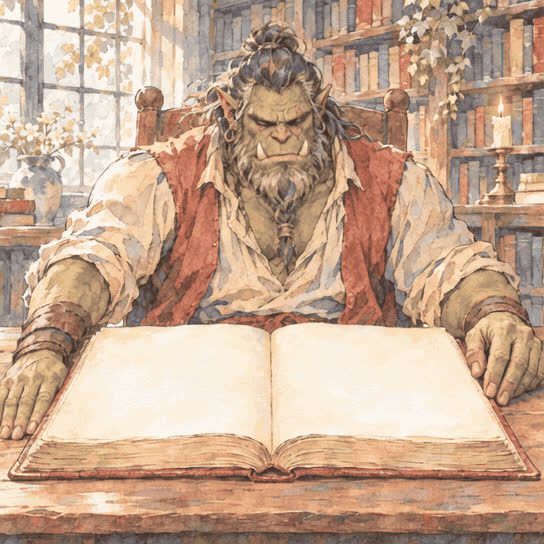
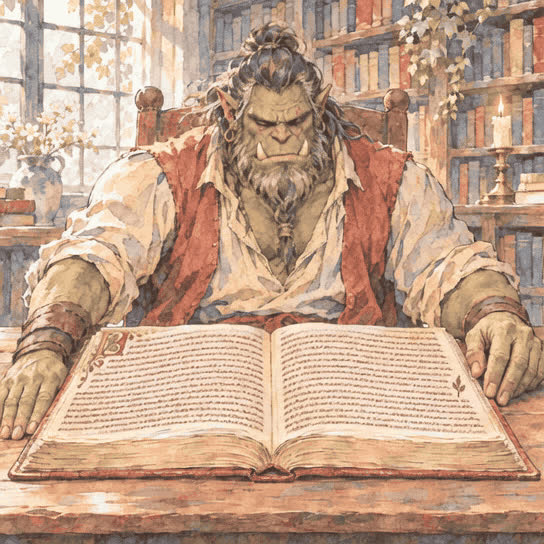
Give the Reading book handwritten pages.
Both open pages and the turning sheet now carry lines of handwritten ink script with a drop cap and a margin leaf. The writing is a Studio edit's ink composited onto the original still's pages, and Grok Imagine (Cursor GenerateVideo) animates the turn with the near hand.

Changed region(s): [[0.0938, 0.5938, 0.9375, 0.8125]]

diff --git a/scripts/motion-prompts.ts b/scripts/motion-prompts.ts
@@ -152,7 +152,7 @@ export const PROMPTS: Record<string, string> = {
   ready:
     "The armored orc tightens his grip on the axe and shifts into a ready stance, determined breath. Locked camera.",
   reading:
-    "The heavy book lies open flat on the table and never moves or lifts. His head stays still and bowed, and his eyes look down at the pages the whole time, never at the viewer. His hand on the right side of the picture, already resting next to the book, moves onto the outer top corner of the right-hand page, and his fingers pick up that corner of the top sheet. That one page is hinged at the spine: its inner edge stays fixed in the spine the whole time. His fingers lift the corner, and the page rises in a smooth arc, standing up over the spine, then his hand carries it over to the left side and lays it flat on the left stack of pages. His fingers let go and his hand goes back to rest on the table at the right side of the book. His hand on the left side of the picture stays resting on the table and does not move. Only that one page moves; every other page stays flat, and nothing floats in the air. The page keeps its size and shape and stays blank cream paper on both sides. Mouth stays closed, no talking. No text, no captions, no writing, no effects. His hair, beard, tusks, face, clothes, the table and the library stay exactly the same. Locked camera: the framing stays exactly the same, no zoom, no pan, no cut.",
+    "The heavy book lies open flat on the table and never moves or lifts. Both pages are covered in lines of handwritten ink script that stay printed on the paper: the writing never moves, crawls, changes or slides, it stays fixed on each page like real ink. His head stays still and bowed, and his eyes stay down on the book the whole time: he never looks up, never looks at the viewer, his eyelids stay lowered as he reads. His hand on the right side of the picture, already resting next to the book, moves onto the outer top corner of the right-hand page, and his fingers pick up that corner of the top sheet. That one page is hinged at the spine: its inner edge stays fixed in the spine the whole time. His fingers lift the corner, and the page rises in a smooth arc, standing up over the spine, then his hand carries it over to the left side and lays it flat on the left stack of pages. The turning sheet also carries lines of handwritten script on both sides, printed on the paper, and the page underneath it shows more lines of handwritten script. His fingers let go and his hand goes back to rest on the table at the right side of the book. His hand on the left side of the picture stays resting on the table and does not move. Only that one page moves; every other page stays flat, and nothing floats in the air. The page keeps its size and shape. Mouth stays closed, no talking. No captions, no text overlays, no effects. His hair, beard, tusks, face, clothes, the table and the library stay exactly the same. Locked camera: the framing stays exactly the same, no zoom, no pan, no cut.",
   sad: "The warrior looks downcast, a slow sad blink, a small sniff and a heavy slump of his shoulders. Mouth stays closed. Locked camera.",
   sailing:
     "The ship sails steadily forward across the sparkling sea under full sail. The deck gently rises and falls with the swell, the huge white sails billow and ripple in the strong wind, the rigging sways, waves and white spray rush past the hull, and seagulls glide by overhead. The captain stands firm at the wheel with both hands on it, turns the wheel a little to steer, and gazes out ahead over the sea with a calm, content, confident smile, his eyes open, the wind tugging at his coat and the tails of his bandana. No talking. No text, no captions. His bandana, beard, tusks, earring, face and coat stay exactly the same. The camera rides along with the ship: the framing stays the same, no zoom, no cut.",
